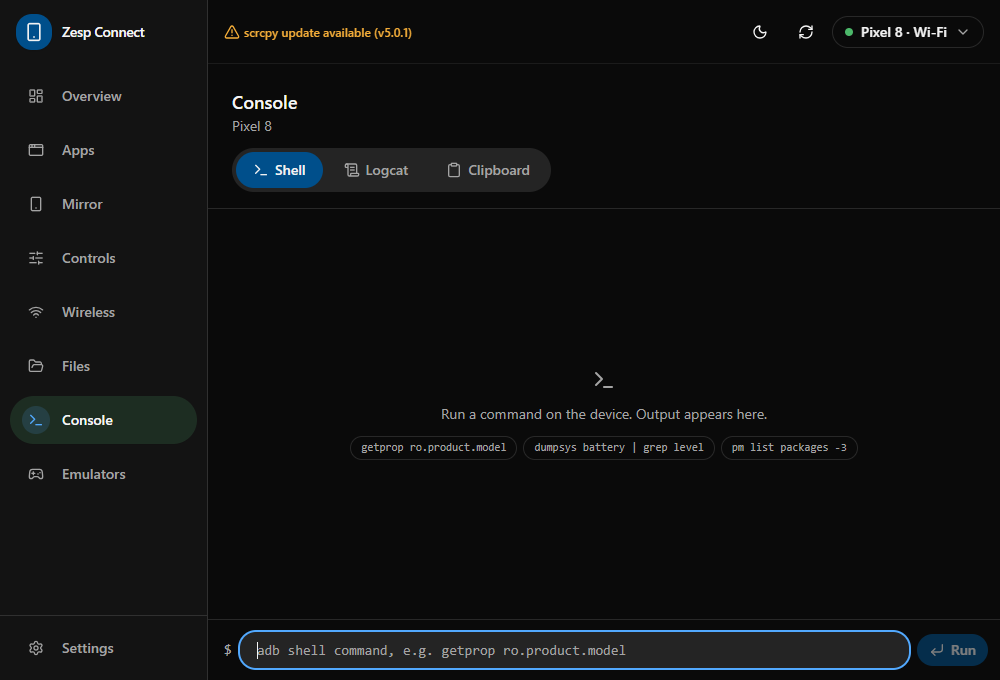
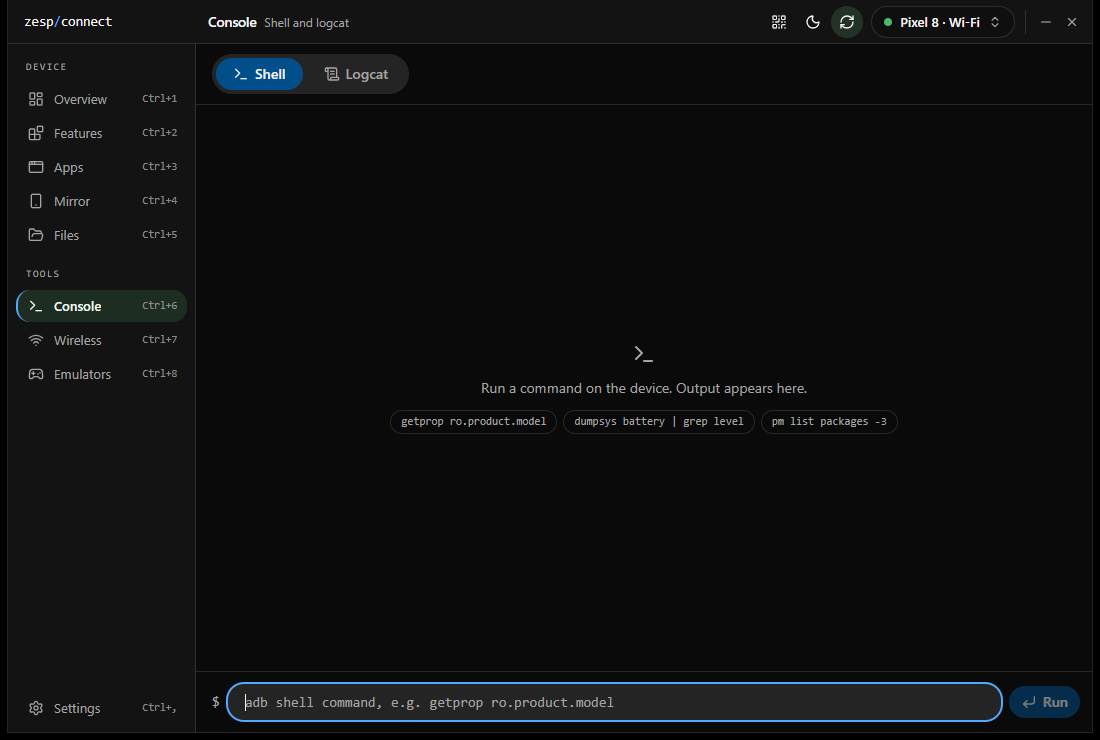
feat: enhance release workflow to include dynamic release notes and add CHANGELOG.md

diff --git a/README.md b/README.md
@@ -1,72 +1,163 @@
+<div align="center">
+
+<img src="app-icon.svg" alt="Zesp Connect logo" width="96" height="96" />
+
 # Zesp Connect
 
-A cross-platform desktop app for managing Android devices over **adb** and **scrcpy**.
-Mirror your screen, manage apps, transfer files, pair over Wi-Fi and run shell commands,
-all from one window on Windows, macOS and Linux.
+**Your Android phone, on your desktop.**
 
-Built with [Tauri 2](https://tauri.app), React, TypeScript and Rust.
+Mirror the screen, hear the phone's sound, share the clipboard, move files and control
+apps from one fast, lightweight window. No companion app, no account, no cloud.
 
-![Overview](docs/screenshots/overview.png)
+[![CI](https://github.com/GauravGhost/Zesp-Connect/actions/workflows/ci.yml/badge.svg)](https://github.com/GauravGhost/Zesp-Connect/actions/workflows/ci.yml)
+[![Release](https://img.shields.io/github/v/release/GauravGhost/Zesp-Connect?include_prereleases)](https://github.com/GauravGhost/Zesp-Connect/releases)
+[![License: MIT](https://img.shields.io/badge/license-MIT-blue.svg)](LICENSE)
+![Platforms](https://img.shields.io/badge/platform-Windows%20%7C%20macOS%20%7C%20Linux-lightgrey)
+
+[Download](https://github.com/GauravGhost/Zesp-Connect/releases) ·
+[Features](#features) ·
+[Getting started](#getting-started) ·
+[Build from source](#building-from-source) ·
+[Changelog](CHANGELOG.md) ·
+[Contributing](#contributing)
+
+![Zesp Connect overview](docs/screenshots/overview.png)
+
+</div>
+
+## What is Zesp Connect?
+
+Zesp Connect is a free, open source desktop app that connects your Android phone to your
+Windows, macOS or Linux computer. Plug in a USB cable or pair over Wi-Fi, and your phone
+becomes part of your desktop: its screen in a window, its apps one shortcut away, its sound
+in your headphones and its clipboard shared with your computer.
+
+It is built on two proven open source tools, Android's
+[adb](https://developer.android.com/tools/adb) and
+[scrcpy](https://github.com/Genymobile/scrcpy), and wraps them in a clean interface so you
+never have to touch a terminal.
+
+## Why I built it
+
+During a working day my phone and my computer felt like two separate worlds. A message
+arrived on the phone and I had to pick it up. A photo had to be emailed to myself. A link
+copied on the laptop could not be pasted on the phone.
+
+The tools that bridge this gap each had a catch:
+
+- **scrcpy and adb** are excellent, but they live in the terminal and every feature is a
+  flag you have to remember.
+- **Phone link apps** need a companion app on the phone, an account, or a specific brand of
+  phone or computer, and some route data through the cloud.
+- **All-in-one device managers** are often closed source, heavy, or full of ads.
+
+Zesp Connect is the tool I wanted: everything adb and scrcpy can do, in one friendly
+window, on every desktop platform, with nothing to install on the phone and nothing leaving
+your own network. It is also designed to stay light. Devices are tracked through events
+rather than polling, so the app sits quietly in the tray until you need it.
 
 ## Features
 
-- **Device management.** Devices are detected live through `adb track-devices` (no polling).
-  USB and Wi-Fi connections to the same phone are merged into a single entry.
-- **Screen mirroring.** Mirror the display, a device camera, or a single app in its own
-  window. Sessions run inside the app with touch and keyboard input, always-on-top and
-  aspect-ratio locking. Supports Android desktop (windowing) mode.
-- **Connected features.** Switched per device from the Overview:
-  - **Clipboard sync** - copy on the phone or the computer and paste on the other (text).
-  - **Phone sound** - play the phone's sound on the phone or on the computer, also from the
-    Mirror screen and any mirror window's title bar. Needs Android 11 or later.
-- **App manager.** Lists installed apps by their real names, with search and filters.
-  Launch, uninstall, clear data, or install an APK.
+### Mirror and control
+
+- **Screen mirroring** with mouse, touch and keyboard input, in a resizable window with
+  always-on-top and a hover control bar.
+- **Open a single app in its own window**, or mirror a camera or Android desktop mode.
+- **Screenshots and recordings** from any mirror window, with the phone's sound included in
+  recordings (Android 13+). Save to a folder or copy straight to the clipboard.
+- **Drag and drop** files onto a mirror window or the main window to send them to the phone.
+- **Enter sends** in WhatsApp and Telegram windows, Shift+Enter for a new line.
+
+### Stay connected
+
+- **Phone sound on your computer.** Route audio to the phone or the computer per device
+  (Android 11+).
+- **Two-way clipboard sync.** Copy on one side, paste on the other.
+- **Now playing.** See what is playing on the phone and control it from the desktop.
+- **App launcher.** Press `Ctrl+Shift+Space` (`Cmd+Shift+Space` on macOS) anywhere to search
+  and open a phone app in its own window. The shortcut can be changed.
+
+### Manage your device
+
+- **Apps.** Browse installed apps by their real names, then launch, uninstall, clear data or
+  install an APK.
+- **Files.** Browse storage, upload and download, create folders, and preview images,
+  videos, audio, PDFs and text without downloading them first.
 - **Quick controls.** Toggle Wi-Fi, Bluetooth, mobile data, dark mode, Do Not Disturb and
-  rotation, adjust brightness and volume, and reboot, from a quick-settings style panel.
-- **Wireless debugging.** Pair with a QR code or a six-digit code, discover devices on the
-  network via mDNS, or switch a USB-connected device to Wi-Fi in one click.
-- **File browser.** Browse device storage, upload and download files, create folders, and
-  delete entries.
-- **Console.** Run `adb shell` commands and stream logcat with severity colouring.
-- **Emulators.** List Android Virtual Devices, see which are running, and boot them.
-- **Tool management.** Finds `adb` and `scrcpy` automatically. You can also point to custom
-  binaries, or install missing tools through your system package manager.
-- **System tray.** Quick access to devices and common actions, plus an optional launch at
-  startup.
-- **Theming.** Light and dark modes with several Material You inspired colour presets.
+  rotation, adjust brightness and volume, or reboot.
+- **Console.** Run `adb shell` commands and stream logcat with colour-coded severity.
+- **Emulators.** List, see and boot your Android Virtual Devices.
+
+### Wireless, the easy way
+
+- **Pair with a QR code** or a six-digit code, or switch a USB device to Wi-Fi in one click.
+- **Automatic discovery** of phones on your network.
+- **Auto-reconnect.** Saved phones reconnect on their own when they come back on the network.
+
+### Built for the desktop
+
+- **Live device detection.** USB and Wi-Fi connections to the same phone appear as one
+  device.
+- **System tray** with quick actions and optional launch at startup.
+- **Guided setup.** Finds `adb` and `scrcpy` automatically, or helps you install them.
+- **Light and dark themes** with several Material You inspired colour presets.
 
 ## Screenshots
 
-| Apps                               | Mirror                                 |
-| ---------------------------------- | -------------------------------------- |
-| ![Apps](docs/screenshots/apps.png) | ![Mirror](docs/screenshots/mirror.png) |
+| Features                                   | Apps                               |
+| ------------------------------------------ | ---------------------------------- |
+| ![Features](docs/screenshots/features.png) | ![Apps](docs/screenshots/apps.png) |
 
-| Controls                                   | Wireless                                   |
-| ------------------------------------------ | ------------------------------------------ |
-| ![Controls](docs/screenshots/controls.png) | ![Wireless](docs/screenshots/wireless.png) |
+| Mirror                                 | Files                                |
+| -------------------------------------- | ------------------------------------ |
+| ![Mirror](docs/screenshots/mirror.png) | ![Files](docs/screenshots/files.png) |
 
-| Files                                | Console                                  |
-| ------------------------------------ | ---------------------------------------- |
-| ![Files](docs/screenshots/files.png) | ![Console](docs/screenshots/console.png) |
+| Wireless                                   | Console                                  |
+| ------------------------------------------ | ---------------------------------------- |
+| ![Wireless](docs/screenshots/wireless.png) | ![Console](docs/screenshots/console.png) |
 
-## Installation
+| Emulators                                    | Settings                                   |
+| -------------------------------------------- | ------------------------------------------ |
+| ![Emulators](docs/screenshots/emulators.png) | ![Settings](docs/screenshots/settings.png) |
+
+## Getting started
+
+### 1. Install the app
 
 Download the installer for your platform from the
-[Releases](https://github.com/GauravGhost/Zesp-Connect/releases) page:
+[Releases](https://github.com/GauravGhost/Zesp-Connect/releases) page.
 
-| Platform | Package                          |
-| -------- | -------------------------------- |
-| Windows  | `.msi` or `.exe`                 |
-| macOS    | `.dmg` (Apple silicon and Intel) |
-| Linux    | `.AppImage` or `.deb`            |
+| Platform | Package                                  |
+| -------- | ---------------------------------------- |
+| Windows  | `.msi` or `.exe`                         |
+| macOS    | `.dmg` (Apple silicon and Intel, 10.15+) |
+| Linux    | `.AppImage` or `.deb`                    |
 
-### Runtime requirements
+### 2. Get the tools
+
+Zesp Connect needs two free tools on your computer. If either is missing, the app offers to
+install it for you on first launch.
 
 - [adb](https://developer.android.com/tools/releases/platform-tools) (Android platform-tools)
-- [scrcpy](https://github.com/Genymobile/scrcpy) 3.x or later (required for mirroring)
-- USB debugging (or Wireless debugging) turned on for your device
+- [scrcpy](https://github.com/Genymobile/scrcpy) 3.x or later, for mirroring, sound and
+  clipboard sync
 
-If either tool is missing, the app walks you through installing it on first launch.
+### 3. Prepare your phone
+
+1. Open **Settings → About phone** and tap **Build number** seven times to enable developer
+   options.
+2. In **Settings → Developer options**, turn on **USB debugging** (and **Wireless
+   debugging** if you want to connect over Wi-Fi).
+3. Connect the phone with a USB cable and accept the prompt on the phone, or pair it from
+   the **Wireless** page.
+
+Your phone appears in the app within a second or two.
+
+## Privacy
+
+Zesp Connect talks to your phone directly over USB or your local network using adb. It has
+no account, no telemetry, no cloud service and nothing to install on the phone. Your screen,
+sound, files and clipboard never leave the devices you connect.
 
 ## Building from source
 
@@ -96,11 +187,14 @@ The installers are written to `src-tauri/target/release/bundle/`.
 
 ### Developing without a device
 
-A fake `adb` script is included, so you can work on the UI without a phone. In
+A fake `adb` script is included so you can work on the UI without a phone. In
 **Settings → adb**, set the path to `scripts/fake-adb.sh` (macOS/Linux) or
 `scripts/fake-adb.cmd` (Windows).
 
-## Project structure
+### Tech stack
+
+[Tauri 2](https://tauri.app) and Rust for the backend, React, TypeScript and
+[shadcn/ui](https://ui.shadcn.com) for the interface.
 
 ```
 src/                     React frontend
@@ -113,15 +207,16 @@ src/                     React frontend
 src-tauri/src/           Rust backend
 ├── commands/            Thin Tauri command handlers
 ├── services/            Domain logic and adb/scrcpy output parsers (no Tauri types)
-├── runtime/             Device tracker, mirror sessions, tool installation
+├── runtime/             Device tracker, mirror sessions, recording, reconnect
 ├── models/              Types shared with the frontend
+├── tray/                System tray menu and actions
 └── platform/            OS-specific window handling
 ```
 
 External processes are always started with an argument array, never a shell string.
 Device paths and package names are validated before they are used.
 
-## Scripts
+### Scripts
 
 | Command                                          | Description                            |
 | ------------------------------------------------ | -------------------------------------- |
@@ -132,10 +227,29 @@ Device paths and package names are validated before they are used.
 | `npm run test`                                   | Run frontend tests (Vitest)            |
 | `npm run rust:fmt` / `rust:clippy` / `rust:test` | Format, lint and test the Rust backend |
 
-## Releasing
+## Contributing
 
-Pushing a version tag builds installers for every platform and attaches them to a
-draft GitHub release:
+Contributions of all sizes are welcome: bug reports, feature ideas, documentation and code.
+
+1. For larger changes, please [open an issue](https://github.com/GauravGhost/Zesp-Connect/issues)
+   first to discuss the approach.
+2. Fork the repo and create a branch for your change.
+3. Make sure these pass before you open a pull request:
+
+   ```bash
+   npm run typecheck && npm run lint && npm run format:check && npm run test
+   npm run rust:fmt && npm run rust:clippy && npm run rust:test
+   ```
+
+UI work should follow the theming guidelines in
+[`src/app/theme/README.md`](src/app/theme/README.md).
+
+<details>
+<summary><strong>Releasing (maintainers)</strong></summary>
+
+Add a section for the new version to [`CHANGELOG.md`](CHANGELOG.md) and commit it. Then
+push a version tag. This builds installers for every platform and attaches them to a draft
+GitHub release, using that changelog section as the release notes:
 
 ```bash
 git tag v0.1.0
@@ -157,17 +271,7 @@ Builds are unsigned by default. To enable code signing, add these repository sec
 | `WINDOWS_CERTIFICATE`          | Windows  | Base64-encoded code-signing `.pfx`             |
 | `WINDOWS_CERTIFICATE_PASSWORD` | Windows  | Password for the `.pfx`                        |
 
-## Contributing
-
-Contributions are welcome. Before you open a pull request, please make sure these pass:
-
-```bash
-npm run typecheck && npm run lint && npm run format:check && npm run test
-npm run rust:fmt && npm run rust:clippy && npm run rust:test
-```
-
-For larger changes, please open an issue first to discuss the approach. UI work should
-follow the theming guidelines in [`src/app/theme/README.md`](src/app/theme/README.md).
+</details>
 
 ## Acknowledgements
 
@@ -177,4 +281,4 @@ follow the theming guidelines in [`src/app/theme/README.md`](src/app/theme/READM
 
 ## License
 
-[MIT](LICENSE)
+Zesp Connect is released under the [MIT License](LICENSE).

diff --git a/CHANGELOG.md b/CHANGELOG.md
@@ -1,0 +1,81 @@
+# Changelog
+
+All notable changes to Zesp Connect are documented here. The format is based on
+[Keep a Changelog](https://keepachangelog.com/en/1.1.0/) and the project uses
+[Semantic Versioning](https://semver.org/).
+
+## [0.1.0] - 2026-11-05
+
+The first public release of Zesp Connect, a free and open source desktop app that brings
+your Android phone to your Windows, macOS or Linux computer. It works over USB or Wi-Fi
+using adb and scrcpy, with no companion app, no account and no cloud.
+
+### Mirror and control
+
+- Mirror the phone's screen with mouse, touch and keyboard input, in a resizable window
+  with always-on-top and a hover control bar.
+- Open a single app in its own window, or mirror a phone camera or Android desktop mode.
+- Take screenshots from any mirror window and save them to a folder, the clipboard or the
+  phone.
+- Record mirror windows to MP4, including the phone's sound (Android 13+).
+- Drag and drop files onto a mirror window or the main window to send them to the phone.
+- Enter sends messages in WhatsApp and Telegram windows, Shift+Enter adds a new line.
+
+### Stay connected
+
+- Play the phone's sound on the computer, switchable per device (Android 11+).
+- Two-way clipboard sync for text.
+- Now playing: see what is playing on the phone and control playback from the desktop.
+- App launcher: press `Ctrl+Shift+Space` (`Cmd+Shift+Space` on macOS) anywhere to search
+  for a phone app and open it in its own window. The shortcut can be changed.
+
+### Manage your device
+
+- Overview with device status and a quick settings panel: Wi-Fi, Bluetooth, mobile data,
+  airplane mode, dark theme, Do Not Disturb, location, rotation, brightness and volume.
+- Apps: browse installed apps by their real names in a list or grid, then launch,
+  uninstall, clear data or install an APK.
+- Files: browse storage, upload and download, create folders, and preview images, videos,
+  audio, PDFs and text without downloading them first.
+- Console: run `adb shell` commands and stream logcat with colour-coded severity.
+- Emulators: list your Android Virtual Devices and boot them.
+
+### Wireless
+
+- Pair with a QR code or a six-digit pairing code, or switch a USB device to Wi-Fi in one
+  click.
+- Automatic discovery of phones on your network.
+- Saved phones reconnect on their own when they come back on the network.
+
+### Desktop
+
+- Live device detection, with USB and Wi-Fi connections to the same phone shown as one
+  device.
+- System tray with quick actions and optional launch at startup.
+- Guided setup that finds `adb` and `scrcpy`, offers to install them, and tells you when
+  updates are available.
+- Light and dark themes with several accent colours.
+
+### Install
+
+| Platform              | Download                              |
+| --------------------- | ------------------------------------- |
+| Windows               | `.exe` (setup) or `.msi`              |
+| macOS (Apple silicon) | `aarch64.dmg`                         |
+| macOS (Intel)         | `x64.dmg`                             |
+| Linux                 | `.AppImage` or `.deb` (Debian/Ubuntu) |
+
+You also need [adb](https://developer.android.com/tools/releases/platform-tools) and
+[scrcpy](https://github.com/Genymobile/scrcpy) 3.x or later. If either is missing, the app
+offers to install it on first launch. Turn on USB debugging (or Wireless debugging) in the
+phone's Developer options.
+
+### Known issues
+
+- The installers are not code-signed yet, so your system may warn you the first time:
+  - **Windows:** on the SmartScreen prompt, click **More info**, then **Run anyway**.
+  - **macOS:** if the app is blocked, open **System Settings → Privacy & Security** and
+    click **Open Anyway**. If macOS says the app is damaged, run
+    `xattr -cr "/Applications/Zesp Connect.app"` in Terminal.
+
+[0.1.0]: https://github.com/GauravGhost/Zesp-Connect/releases/tag/v0.1.0
